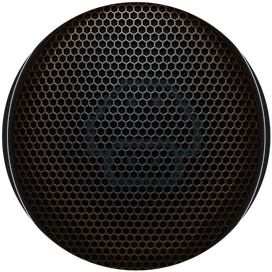
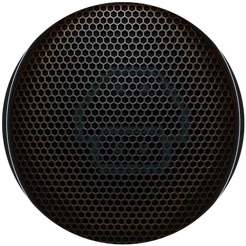
NERD FM: Lautsprecher wie im Paket eingesetzt, RGB-LED-Ring und Licht durchs Gitter statt Wellen
- Umbenannt in NERD FM, Pilz im Display entfernt
- Lautsprecher in die Manifest-Rechtecke (vorher ~8 % zu groß, rechts über den Rahmen); Öffnung nur zusammenhängend gemessen
- RGB-LED-Ring mit Schein um jeden Tieftöner und farbiges Licht durch das Lochgitter (Maske aus dem Gitter),
  Farbe pendelt Türkis-Blau-Lila-Pink, Helligkeit folgt dem Bass; Wellen entfernt
- Fix: Schlafenlegen des Audio-Kontexts nach Stopp wird von jeder Transportaktion abgebrochen

diff --git a/dau-to-pro/nerd-radio.css b/dau-to-pro/nerd-radio.css
@@ -55,12 +55,30 @@
 /* Licht und Schatten der Membran: nach vorn gedrückt heller in der Mitte, dunkler zum Rand hin */
 .nr-cone__shade{position:absolute;inset:0;border-radius:50%;opacity:var(--nr-push);
   background:radial-gradient(circle at var(--mx) var(--my),#ffffff2e 0,#ffffff0a 30%,transparent 50%,#00000070 100%)}
-/* RGB-Wellen vom Pilz aus */
-.nr-cone__waves{position:absolute;inset:0;mix-blend-mode:screen}
-.nr-wave{position:absolute;left:var(--mx);top:var(--my);width:100%;aspect-ratio:1;border-radius:50%;translate:-50% -50%;
-  border:.32cqw solid hsl(var(--h) 100% 62%);box-shadow:0 0 .9cqw hsl(var(--h) 100% 55%),inset 0 0 .9cqw hsl(var(--h) 100% 55%);
-  animation:nr-wave 1.2s cubic-bezier(.15,.55,.35,1) forwards}
-@keyframes nr-wave{from{scale:.14;opacity:.95}to{scale:1.55;opacity:0}}
+/* ---------- RGB-Licht wie bei Party-Boomboxen ----------
+   --nr-hue wandert fließend (bei Bassschlägen schneller), --nr-led / --nr-mesh = Helligkeit aus nerd-radio.js.
+   Farbverlauf über drei benachbarte Farbtöne, damit es satt wirkt statt bunt durcheinander.
+   Farbbereich Türkis – Blau – Lila – Pink (kein Gelb/Grün neben dem Gold der Ringe). */
+.nr-device{--nr-hue:190;--nr-led:0;--nr-mesh:0;
+  --nr-c1:hsl(var(--nr-hue) 95% 55%);--nr-c2:hsl(calc(var(--nr-hue) + 30) 95% 58%);--nr-c3:hsl(calc(var(--nr-hue) - 30) 95% 50%)}
+/* Licht scheint durch die Löcher des Gitters (Maske aus layout.css), Mitte am hellsten, pumpt mit der Membran */
+.nr-cone__mesh{position:absolute;inset:0;opacity:var(--nr-mesh);mix-blend-mode:screen;
+  background:radial-gradient(circle at var(--mx) var(--my),var(--nr-c2) 0,var(--nr-c1) 50%,var(--nr-c3) 100%);
+  -webkit-mask-size:100% 100%;mask-size:100% 100%;-webkit-mask-repeat:no-repeat;mask-repeat:no-repeat}
+/* LED-Ring um den Tieftöner: einzelne LEDs plus weicher Schein, der über Rand und Gehäuse strahlt */
+.nr-face>.nr-led{position:absolute;pointer-events:none;opacity:var(--nr-led);mix-blend-mode:screen}
+.nr-led::before,.nr-led::after{content:"";position:absolute;border-radius:50%;
+  background:conic-gradient(from calc(var(--nr-hue) * 1deg),var(--nr-c1),var(--nr-c2),var(--nr-c3),var(--nr-c2),var(--nr-c1))}
+.nr-led::after{inset:0;
+  -webkit-mask:radial-gradient(closest-side,transparent 88.5%,#000 90%,#000 97%,transparent 98.5%),repeating-conic-gradient(#000 0 7deg,transparent 7deg 11.25deg);
+  -webkit-mask-composite:source-in;
+  mask:radial-gradient(closest-side,transparent 88.5%,#000 90%,#000 97%,transparent 98.5%),repeating-conic-gradient(#000 0 7deg,transparent 7deg 11.25deg);
+  mask-composite:intersect}
+.nr-led::before{inset:-9%;filter:blur(1.1cqw);opacity:.85;
+  -webkit-mask:radial-gradient(closest-side,transparent 70%,#000 82%,#000 90%,transparent 100%);
+  mask:radial-gradient(closest-side,transparent 70%,#000 82%,#000 90%,transparent 100%)}
+@supports (mix-blend-mode:plus-lighter){.nr-face>.nr-led,.nr-cone__mesh{mix-blend-mode:plus-lighter}}
+.nr-device:not([data-state=playing]) :is(.nr-led,.nr-cone__mesh){transition:opacity .8s ease-out}
 
 /* ---------- Display ---------- */
 .nr-display{position:absolute;padding:0}
@@ -72,16 +90,6 @@
 .nr-display__glass::after{content:"";position:absolute;inset:0;pointer-events:none;z-index:3;
   background:linear-gradient(162deg,#ffffff17 0 16%,transparent 32%),repeating-linear-gradient(0deg,#ffffff07 0 .035cqw,transparent .035cqw .1cqw)}
 .nr-display__brand{grid-column:1;grid-row:1;display:flex;align-items:center;gap:4%;min-width:0}
-/* Pixelpilz als leuchtende Displaypixel: nur helle Pixel strahlen (screen), dunkle verschwinden im Glas,
-   feine Rasterfugen zwischen den 18 x 18 Bildpunkten, roter Schein wie die Cyan-Schrift. Liegt unter dem Glasreflex. */
-.nr-display__logo{flex:none;width:4.4cqw;height:4.4cqw;mix-blend-mode:screen;opacity:.95;
-  filter:drop-shadow(0 0 .18cqw #ff5a3acc) drop-shadow(0 0 .7cqw #ff3a2a77)}
-.nr-display__logo img{display:block;width:100%;height:100%;image-rendering:pixelated;filter:saturate(1.15) brightness(1.05);
-  --px:calc(100% / 18);
-  -webkit-mask:linear-gradient(90deg,#000 78%,transparent 0) 0 0/var(--px) 100%,linear-gradient(#000 78%,transparent 0) 0 0/100% var(--px);
-  -webkit-mask-composite:source-in;
-  mask:linear-gradient(90deg,#000 78%,transparent 0) 0 0/var(--px) 100%,linear-gradient(#000 78%,transparent 0) 0 0/100% var(--px);
-  mask-composite:intersect}
 .nr-display__brand h2{flex:1;min-width:0;margin:0;line-height:0}
 .nr-display__brand h2 svg{display:block;width:100%;height:auto;overflow:visible}
 .nr-display__brand text{font:900 30px ui-monospace,"Cascadia Mono",SFMono-Regular,Consolas,monospace;fill:#5ff3ff;filter:drop-shadow(0 0 2px #22dcf5) drop-shadow(0 0 6px #22dcf588)}
@@ -141,6 +149,5 @@
 @media(prefers-reduced-motion:reduce){
   .nr-display__ind{transition:none}
   .nr-device[data-state=paused] .nr-display__icon,.nr-device[data-state=playing] .is-long .nr-marquee{animation:none}
-  .nr-wave{display:none}
   .nr-device[data-state=playing] .is-long .nr-marquee{overflow:hidden;text-overflow:ellipsis;width:auto}
 }

diff --git a/dau-to-pro/nerd-radio.js b/dau-to-pro/nerd-radio.js
@@ -55,7 +55,7 @@
     shuffleInd: $('[data-radio-shuffle-ind]'), loopInd: $('[data-radio-loop-ind]'), canvas: $('[data-radio-viz]'),
     faces: [...root.querySelectorAll('[data-radio-face]')],
     lights: ['gold', 'gold-halo', 'gold-edge', 'cyan', 'cyan-halo', 'cyan-edge'].map(n => [...root.querySelectorAll(`[data-radio-light="${n}"]`)]),
-    cones: [...root.querySelectorAll('[data-radio-cone]')], waves: [...root.querySelectorAll('[data-radio-waves]')]
+    cones: [...root.querySelectorAll('[data-radio-cone]')]
   };
   const pen = ui.canvas.getContext('2d');
   const reduced = matchMedia('(prefers-reduced-motion: reduce)');
@@ -260,8 +260,10 @@
       const cut = now + 0.06;
       voices.forEach(v => { try { v.stop(cut); } catch (_) { /* bereits beendet */ } });
       // Ruhender Kontext spart Rechenzeit; Fortsetzen weckt ihn wieder auf.
+      clearTimeout(suspendTimer);
+      const quiet = op;   // jede Transportaktion (Play, Titelwechsel) erhöht op und bricht das Schlafenlegen ab
       suspendTimer = setTimeout(() => {
-        if (state === 'playing' || !ctx || ctx.state !== 'running') return;
+        if (op !== quiet || state === 'playing' || !ctx || ctx.state !== 'running') return;
         suspending = ctx.suspend().catch(() => {}).finally(() => { suspending = null; });
       }, 400);
     }
@@ -346,20 +348,10 @@
   // Der scharfe Kern (Ring, Pixelpilz) bleibt beim Spielen fast voll hell, nur der weiche Schein pulsiert stark;
   // so wirkt der Pilz nie verwaschen, auch wenn die Musik leise ist.
   // Kantenlicht: Ringe werfen Gold auf die Gehäusekanten, der Pilz Cyan aufs Gitter.
-  // Membranen pumpen mit dem Bass; bei Bassschlägen laufen RGB-Wellen vom Pilz aus über die Membran.
+  // Membranen pumpen mit dem Bass. RGB-LED-Ring und Licht durchs Gitter wie bei Party-Boomboxen:
+  // Farbe wandert fließend (bei Bass schneller), Helligkeit folgt dem Bass.
   const STANDBY = 0.06;
-  let bassAvg = 0, lastWave = 0, lastPump = '';
-  function spawnWaves(now) {
-    const hue = Math.round(now / 22) % 360;
-    ui.waves.forEach((box, i) => {
-      if (box.childElementCount > 5) box.firstElementChild.remove();
-      const w = document.createElement('i');
-      w.className = 'nr-wave';
-      w.style.setProperty('--h', String((hue + i * 40) % 360));
-      w.addEventListener('animationend', () => w.remove(), { once: true });
-      box.append(w);
-    });
-  }
+  let lastPump = '', phase = 0, lastHueAt = 0, lastRgb = '';
   function applyBass() {
     const calm = reduced.matches, on = state === 'playing';
     const lo = Math.min(1, bass * 1.5), hi = Math.min(1, treble * 2);
@@ -370,11 +362,18 @@
       lastPump = pump;
       ui.cones.forEach(c => { c.style.transform = push ? `scale(${(1 + push * 0.055).toFixed(4)})` : ''; c.style.setProperty('--nr-push', pump); });
     }
-    if (on && !calm) {
-      const now = performance.now();
-      if (bass > bassAvg * 1.3 + 0.06 && now - lastWave > 240) { lastWave = now; spawnWaves(now); }
-      bassAvg += (bass - bassAvg) * 0.06;
-    } else if (!on) { bassAvg = 0; ui.waves.forEach(b => b.replaceChildren()); }
+    const now = performance.now(), dt = lastHueAt ? Math.min(0.1, (now - lastHueAt) / 1000) : 0;
+    lastHueAt = now;
+    if (on && !calm) phase = (phase + dt * (0.12 + 0.9 * lo)) % (Math.PI * 2);
+    const hue = 185 + 140 * (0.5 - 0.5 * Math.cos(phase));   // pendelt Türkis (185) ↔ Pink (325)
+    const led = !on ? 0 : calm ? 0.75 : 0.22 + 0.78 * lo, mesh = !on ? 0 : calm ? 0.25 : 0.06 + 0.5 * push;
+    const rgb = `${Math.round(hue)}|${led.toFixed(2)}|${mesh.toFixed(2)}`;
+    if (rgb !== lastRgb) {
+      lastRgb = rgb;
+      root.style.setProperty('--nr-hue', String(Math.round(hue)));
+      root.style.setProperty('--nr-led', led.toFixed(2));
+      root.style.setProperty('--nr-mesh', mesh.toFixed(2));
+    }
     const v = !on ? [STANDBY, STANDBY, STANDBY, STANDBY, STANDBY, STANDBY] : calm ? [0.95, 0.7, 0.5, 0.95, 0.7, 0.5]
       : [0.82 + 0.18 * lo, 0.12 + 0.88 * lo, 0.08 + 0.92 * lo, 0.85 + 0.15 * hi, 0.12 + 0.88 * hi, 0.1 + 0.9 * hi];
     const key = v.map(n => n.toFixed(2)).join();

diff --git a/dau-to-pro/nerd-radio/layout.css b/dau-to-pro/nerd-radio/layout.css
@@ -3,24 +3,26 @@
 .nr-face{width:2910px;height:1242px}
 .nr-display{left:28.763%;top:33.333%;width:45.361%;height:24.155%}
 .nr-volume{left:37.010%;top:79.469%;width:28.969%;height:9.420%}
-.nr-glow__gold-halo-l{left:5.945%;top:35.346%;width:20.790%;height:53.784%}
-.nr-glow__gold-halo-r{left:75.842%;top:35.427%;width:21.787%;height:55.958%}
-.nr-glow__gold-l{left:6.564%;top:36.876%;width:19.588%;height:50.886%}
-.nr-glow__gold-r{left:76.495%;top:36.957%;width:20.550%;height:52.979%}
+.nr-glow__gold-halo-l{left:6.873%;top:37.923%;width:18.797%;height:48.631%}
+.nr-glow__gold-halo-r{left:76.770%;top:37.923%;width:18.797%;height:48.631%}
+.nr-glow__gold-l{left:7.423%;top:39.291%;width:17.732%;height:46.055%}
+.nr-glow__gold-r{left:77.320%;top:39.291%;width:17.732%;height:46.055%}
 .nr-glow__cyan-halo-l{left:12.302%;top:51.771%;width:9.141%;height:19.887%}
-.nr-glow__cyan-halo-r{left:81.581%;top:52.335%;width:9.210%;height:20.048%}
+.nr-glow__cyan-halo-r{left:81.443%;top:51.771%;width:9.141%;height:19.887%}
 .nr-glow__cyan-l{left:12.577%;top:52.415%;width:8.763%;height:18.760%}
-.nr-glow__cyan-r{left:81.890%;top:52.979%;width:8.797%;height:18.921%}
-.nr-cone--l{left:6.976%;top:40.338%;width:18.729%;height:43.881%;--mx:52.018%;--my:48.349%}
-.nr-glow__gold-edge-l{left:0.447%;top:19.002%;width:36.048%;height:79.791%}
-.nr-cone--l .nr-glow__cyan-edge-l{left:0.917%;top:0.734%;width:98.349%;height:98.716%}
-.nr-cone--l .nr-glow__cyan-l{left:29.908%;top:27.523%;width:46.789%;height:42.752%}
-.nr-cone--l .nr-glow__cyan-halo-l{left:28.440%;top:26.055%;width:48.807%;height:45.321%}
-.nr-cone--r{left:76.976%;top:40.499%;width:19.519%;height:45.813%;--mx:46.391%;--my:47.276%}
-.nr-glow__gold-edge-r{left:64.742%;top:19.002%;width:34.570%;height:79.549%}
-.nr-cone--r .nr-glow__cyan-edge-r{left:0.704%;top:0.703%;width:97.711%;height:98.770%}
-.nr-cone--r .nr-glow__cyan-r{left:25.176%;top:27.241%;width:45.070%;height:41.301%}
-.nr-cone--r .nr-glow__cyan-halo-r{left:23.592%;top:25.835%;width:47.183%;height:43.761%}
+.nr-glow__cyan-r{left:81.718%;top:52.415%;width:8.763%;height:18.760%}
+.nr-cone--l{left:7.801%;top:42.432%;width:16.942%;height:39.694%;--mx:52.637%;--my:48.174%}
+.nr-glow__gold-edge-l{left:0.515%;top:19.002%;width:34.811%;height:79.710%}
+.nr-cone--l .nr-cone__mesh{-webkit-mask-image:url(mesh-l.webp);mask-image:url(mesh-l.webp)}
+.nr-cone--l .nr-glow__cyan-edge-l{left:1.217%;top:0.811%;width:97.972%;height:98.580%}
+.nr-cone--l .nr-glow__cyan-l{left:28.195%;top:25.152%;width:51.724%;height:47.262%}
+.nr-cone--l .nr-glow__cyan-halo-l{left:26.572%;top:23.529%;width:53.955%;height:50.101%}
+.nr-cone--r{left:77.698%;top:42.432%;width:16.942%;height:39.694%;--mx:48.174%;--my:48.174%}
+.nr-glow__gold-edge-r{left:67.182%;top:19.002%;width:32.131%;height:79.469%}
+.nr-cone--r .nr-cone__mesh{-webkit-mask-image:url(mesh-r.webp);mask-image:url(mesh-r.webp)}
+.nr-cone--r .nr-glow__cyan-edge-r{left:1.014%;top:0.811%;width:98.174%;height:98.580%}
+.nr-cone--r .nr-glow__cyan-r{left:23.732%;top:25.152%;width:51.724%;height:47.262%}
+.nr-cone--r .nr-glow__cyan-halo-r{left:22.110%;top:23.529%;width:53.955%;height:50.101%}
 .nr-key[data-radio-prev]{left:30.000%;top:63.043%;width:6.598%;height:12.077%;background-image:url(key-previous-normal.webp)}
 .nr-key[data-radio-prev]:hover{background-image:url(key-previous-hover.webp)}
 .nr-key[data-radio-prev]:active,.nr-key[data-radio-prev].is-down{background-image:url(key-previous-pressed.webp)}

diff --git a/tools/nerd-radio/prepare_pack.py b/tools/nerd-radio/prepare_pack.py
@@ -12,6 +12,7 @@ Schritte:
   light-gold-*/light-cyan-* = scharfer Kern (Ring bzw. Pixelpilz, Pilz verlustfrei), light-gold-halo-*/light-cyan-halo-*
   = weicher Schein. Kern und Schein sind getrennt, damit der Kern beim Pulsieren hell und scharf bleibt. Nur diese beiden leuchten, ihre Helligkeit folgt der Musik.
 - Membranen (cone-l/r.webp): Gitter + Pilz innerhalb des Randes, als eigene Ebene, die mit dem Bass pumpt.
+- Gitter-Lochmasken (mesh-l/r.webp) für das RGB-Licht, das durch die Membran scheint.
 - Kantenlicht (light-gold-edge-*, light-cyan-edge-*): Lichtfall der Ringe auf Gehäusekanten bzw. des Pilzes aufs
   Gitter, aus Helligkeit und Hochpass der Front berechnet, mit Abfall zur Lichtquelle.
 - Tasten (normal / hover / gedrückt) und Lautstärkeregler als WebP.
@@ -110,7 +111,9 @@ alpha = shell[..., 3]
 # ---------------------------------------------------------------- Aussparungen messen
 hole = alpha < 0.04
 def hole_bbox(x0, y0, x1, y1):
-    sub = hole[y0:y1, x0:x1]; ys, xs = np.nonzero(sub)
+    # nur die zusammenhängende Öffnung um die Mitte des Suchfensters (keine durchsichtigen Nachbarpixel)
+    lab, _ = ndimage.label(hole[y0:y1, x0:x1])
+    sub = lab == lab[(y1 - y0) // 2, (x1 - x0) // 2]; ys, xs = np.nonzero(sub)
     return [int(xs.min() + x0), int(ys.min() + y0), int(xs.max() + x0 + 1), int(ys.max() + y0 + 1)]
 spk_rects = manifest['layout']['speakers']
 SPK = {}
@@ -129,17 +132,18 @@ under(front, glass, x0 - 8, y0 - 8)
 
 # Lautsprecher: Gitter + Rand mit ausgeschaltetem Ring, dazu ausgeschaltete Pixelpilze
 # Pilzmitte und -größe aus der integrierten Hülle des Pakets gemessen
-MUSH = {'left': (486.5, 764.5, 0.785), 'right': (2503.5, 772.0, 0.79)}
+# Pilz links gemessen; rechts gespiegelt an der Lautsprechermitte, damit beide Seiten gleich sitzen
+MUSH = {'left': (486.5, 764.5, 0.785)}
+_lc, _rc = (SPK['left'][0] + SPK['left'][2]) / 2, (SPK['right'][0] + SPK['right'][2]) / 2
+MUSH['right'] = (_rc - (MUSH['left'][0] - _lc), MUSH['left'][1] + (SPK['right'][1] - SPK['left'][1]), MUSH['left'][2])
 LAYERS = {n: np.zeros((CH, CW, 4), np.float32) for n in ('gold-halo', 'gold', 'cyan-halo', 'cyan')}
 layout_spk = {}
 CONE = {}
 for side in ('left', 'right'):
     x0, y0, x1, y1 = SPK[side]
-    pad = 10   # Rand greift etwas unter die Hülle
-    rim_bbox = (37, 37, 987, 991)          # sichtbarer Rand im 1024er Lautsprecherbild
-    sx = (x1 - x0 + 2 * pad) / (rim_bbox[2] - rim_bbox[0]); sy = (y1 - y0 + 2 * pad) / (rim_bbox[3] - rim_bbox[1])
-    W, H = round(1024 * sx), round(1024 * sy)
-    ox, oy = round(x0 - pad - rim_bbox[0] * sx), round(y0 - pad - rim_bbox[1] * sy)
+    # Lautsprecherbild genau in das Rechteck aus dem Manifest (wie in der Paketvorschau): der Rand sitzt dann mit
+    # Abstand im Rahmen. Den Rand auf die Öffnung zu ziehen machte beide Lautsprecher ~8 % zu groß.
+    ox, oy, W, H = spk_rects[side]
     spk = resize(lights_off(load(f'speakers/grille-{side}.png')), W, H)
     rim = resize(lights_off(load(f'speakers/rim-{side}.png')), W, H)
     over(spk, rim, 0, 0)
@@ -181,6 +185,11 @@ for side, (cx, cy, r, (mcx, mcy)) in CONE.items():
     cone = front[y0:y1, x0:x1].copy(); cone[..., 3] *= disc[y0:y1, x0:x1]
     save(resize(cone, (x1 - x0) // 2, (y1 - y0) // 2), os.path.join(args.web, f'cone-{s}.webp'), quality=90)
     CONES[s] = {'rect': [x0, y0, x1 - x0, y1 - y0], 'center': [mcx, mcy]}
+    # Lochmaske des Gitters: dunkle Löcher gegenüber ihrer Umgebung -> dort scheint das RGB-Licht durch
+    cl = (cone[..., :3] @ np.array([0.3, 0.55, 0.15], np.float32))
+    holes = np.clip((ndimage.gaussian_filter(cl, 4) - cl) / (ndimage.gaussian_filter(cl, 4) + 0.02) * 3, 0, 1) * cone[..., 3]
+    mask = np.ones(cone.shape, np.float32); mask[..., 3] = holes
+    save(resize(mask, (x1 - x0) // 2, (y1 - y0) // 2), os.path.join(args.web, f'mesh-{s}.webp'), quality=85)
     # Gold: Ringlicht fällt auf die Gehäusekanten rund um den Lautsprecher (nicht auf die Membran)
     fall = np.exp(-np.clip(d - r * 1.08, 0, None) / (r * 0.3)) * (d > r * 1.0)
     for name, a, col in (('gold-edge', np.clip(catch * fall * 0.8, 0, 1), (1.0, 0.72, 0.28)),

diff --git a/dau-to-pro/index.php b/dau-to-pro/index.php
@@ -111,12 +111,14 @@ $topicLabels=['subnet'=>'IP & Subnetting','netzwerk'=>'Netzwerke','sicherheit'=>
             $src = "nerd-radio/$file.webp"; $v = filemtime(__DIR__ . '/' . $src);
             return '<img class="' . $cls . '" src="' . $src . '?v=' . $v . '"' . ($light ? ' data-radio-light="' . $light . '"' : '') . ' alt="" decoding="async">';
           }; ?>
-          <!-- Membranen: pumpen mit dem Bass; Pilz, Pilzlicht auf dem Gitter und RGB-Wellen bewegen sich mit -->
+          <!-- Membranen: pumpen mit dem Bass; Pilz, Pilzlicht und farbiges Licht durchs Lochgitter bewegen sich mit.
+               Darüber je ein RGB-LED-Ring um den Tieftöner (Farbe wandert, Helligkeit folgt dem Bass). -->
 <?php foreach (['l', 'r'] as $nrS): ?>
           <div class="nr-cone nr-cone--<?=$nrS?>" aria-hidden="true"><div class="nr-cone__body" data-radio-cone>
             <?=$nrImg("cone-$nrS", 'nr-cone__img')?><?=$nrImg("light-cyan-edge-$nrS", "nr-glow__cyan-edge-$nrS", 'cyan-edge')?><?=$nrImg("light-cyan-halo-$nrS", "nr-glow__cyan-halo-$nrS", 'cyan-halo')?>
-            <span class="nr-cone__waves" data-radio-waves></span><?=$nrImg("light-cyan-$nrS", "nr-glow__cyan-$nrS", 'cyan')?><span class="nr-cone__shade"></span>
+            <span class="nr-cone__mesh"></span><?=$nrImg("light-cyan-$nrS", "nr-glow__cyan-$nrS", 'cyan')?><span class="nr-cone__shade"></span>
           </div></div>
+          <div class="nr-led nr-cone--<?=$nrS?>" aria-hidden="true"></div>
 <?php endforeach; ?>
           <!-- Echtes Licht: Ringe (Gold = Bass) samt Lichtfall auf die Gehäusekanten; Helligkeit folgt der Musik -->
 <?php foreach (['gold-edge', 'gold-halo', 'gold'] as $nrL): ?>
@@ -124,7 +126,7 @@ $topicLabels=['subnet'=>'IP & Subnetting','netzwerk'=>'Netzwerke','sicherheit'=>
 <?php endforeach; ?>
           <div class="nr-display">
             <div class="nr-display__glass">
-              <div class="nr-display__brand"><span class="nr-display__logo"><img src="../assets/dau-to-pro-pixelpilz.svg?v=20261103" alt="" width="18" height="18"></span><h2 id="nr-title"><span class="nr-sr">NERD RADIO</span><svg viewBox="0 0 170 30" aria-hidden="true" focusable="false"><text x="1" y="25" textLength="167" lengthAdjust="spacingAndGlyphs">NERD RADIO</text></svg></h2></div>
+              <div class="nr-display__brand"><h2 id="nr-title"><span class="nr-sr">NERD FM</span><svg viewBox="0 0 170 30" aria-hidden="true" focusable="false"><text x="1" y="25" textLength="117" lengthAdjust="spacingAndGlyphs">NERD FM</text></svg></h2></div>
               <div class="nr-display__viz"><canvas data-radio-viz width="300" height="120" role="img" aria-label="Echtzeit-Anzeige des Audiosignals"></canvas></div>
               <p class="nr-display__track"><span class="nr-display__icon" aria-hidden="true"></span><span class="nr-display__titlebox"><span class="nr-marquee" data-radio-title>01 – Stack Overflow FM</span></span></p>
               <div class="nr-display__meta">

diff --git a/tools/nerd-radio/build_boombox.py b/tools/nerd-radio/build_boombox.py
@@ -235,6 +235,7 @@ for s, cone in (PACK.get('cones') or {}).items():
     box = cone['rect']; mx, my = cone['center']
     lines.append(f'.nr-cone--{s}{{{place(box)};--mx:{pct(mx - box[0], box[2])};--my:{pct(my - box[1], box[3])}}}')
     lines.append(f'.nr-glow__gold-edge-{s}{{{place(cone["gold-edge"])}}}')
+    lines.append(f'.nr-cone--{s} .nr-cone__mesh{{-webkit-mask-image:url(mesh-{s}.webp);mask-image:url(mesh-{s}.webp)}}')
     lines.append(f'.nr-cone--{s} .nr-glow__cyan-edge-{s}{{{rel(cone["cyan-edge"], box)}}}')
     for n in ('cyan', 'cyan-halo'):
         lines.append(f'.nr-cone--{s} .nr-glow__{n}-{s}{{{rel(PACK["lights"][f"{n}-{s}"], box)}}}')
